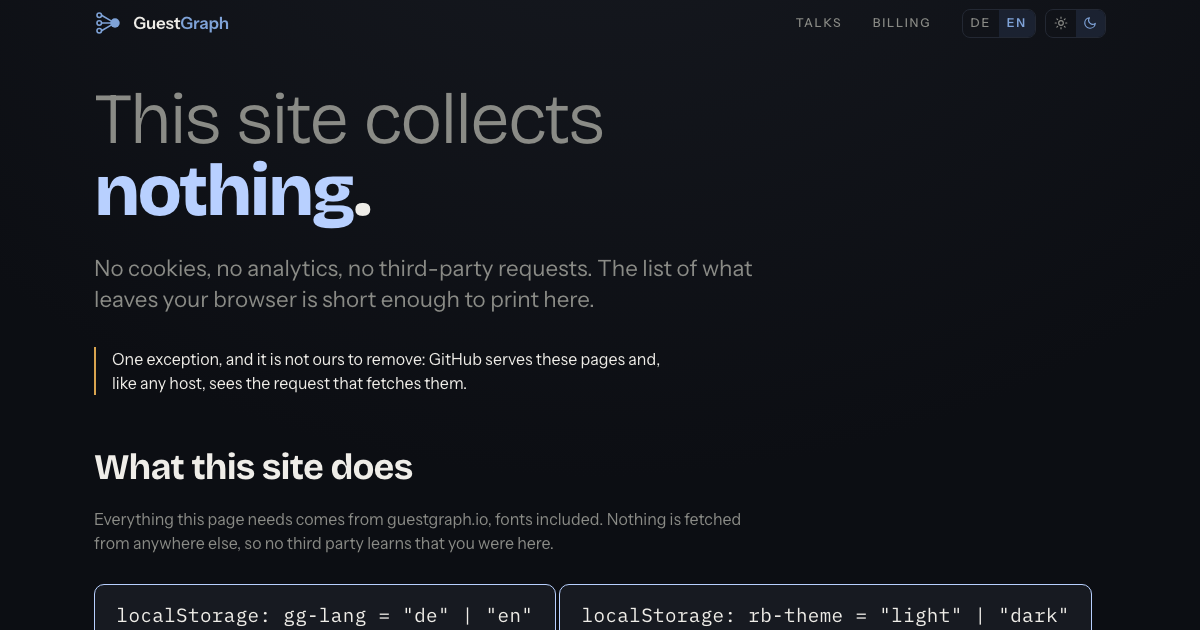
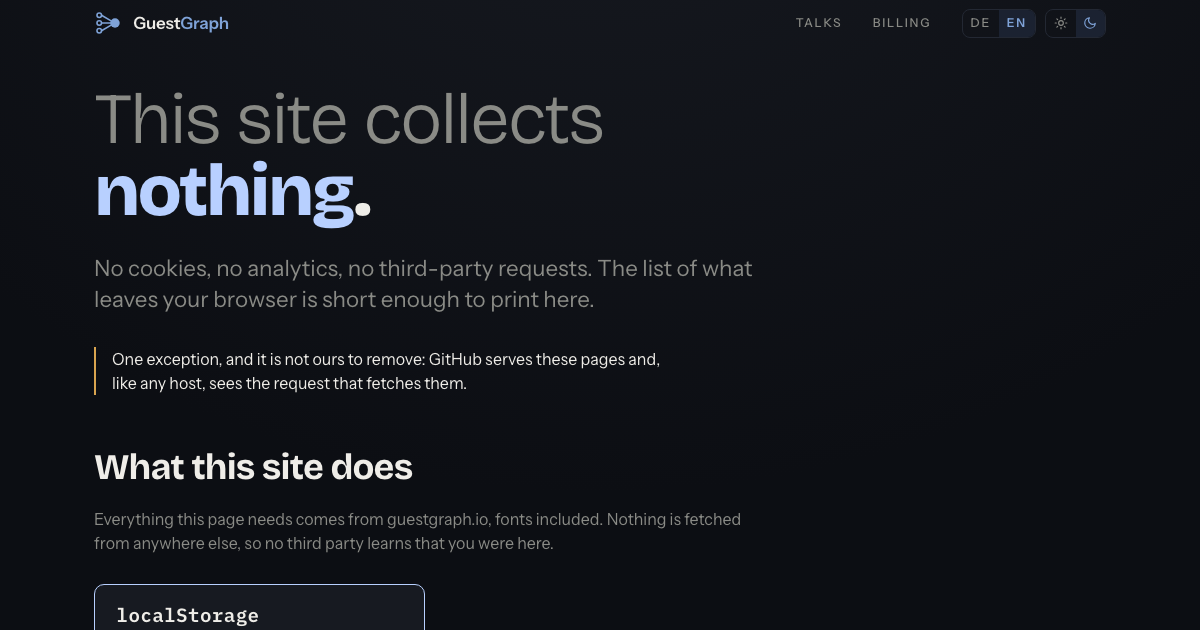
Design 0.32.0: the saved language and theme are lang and theme
Every page reads and writes its saved language and theme under the family's two keys, the
words the address already carries, in place of gg-lang and rb-theme; a visitor's saved
choice starts over once. The config names groups and nothing else, the suite's theme-boot
check names the new key, and the privacy page says what is stored as one block: the two
words.

Verified: npm run verify passes on every page; og:check and design:check pass; no page
names an old key.

diff --git a/talks/intro/index.html b/talks/intro/index.html
@@ -101,7 +101,7 @@
 </script>
 <meta name="author" content="Robert Blust">
 <script>
-  /* ─── theme boot · v2 · deck ────────────────────────────────────
+  /* ─── theme boot · v3 · deck ────────────────────────────────────
      Set the theme before anything paints. Generated from @robertblust/design —
      editing it here does nothing, because the next `npm run design` overwrites it.
 
@@ -121,7 +121,7 @@
   (function(){
     try {
       var m = /[?&]theme=(light|dark)(&|$)/.exec(location.search);
-      var t = m ? m[1] : localStorage.getItem("rb-theme");
+      var t = m ? m[1] : localStorage.getItem("theme");
       if (t === "light") document.documentElement.setAttribute("data-theme", "light");
     } catch (e) {}
   })();
@@ -1121,7 +1121,7 @@
     de:{ title:'GuestGraph – eine Einführung · ein Vortrag von Robert Blust', desc:'Ein Vortrag darüber, warum ein Stammgast wie fünf Fremde aussieht – und wie gestufte Sicherheit jede Zusammenführung erklärbar und umkehrbar macht.' },
     en:{ title:'GuestGraph — an introduction · a talk by Robert Blust', desc:'A talk on why a returning guest looks like five strangers, and how layered confidence makes every merge explainable and reversible.' }
   };
-  /* ─── deck runtime · v6 · shared ───────────────────────────────────
+  /* ─── deck runtime · v7 · shared ───────────────────────────────────
      The deck's whole runtime — slide navigation, language switching, the notes panel
      and narration — generated from @robertblust/design. Editing it here does nothing,
      because the next `npm run design` overwrites it. Change it in the package.
@@ -1162,20 +1162,11 @@
      attributes existing on the page around it; `transport` and `opensFromFile` are what
      actually hold that larger contract, between them, not this comment.
 
-     A `language` fence lives inside this one, parameterized exactly as it is anywhere
-     else it appears — its own `LANG_KEY` line is filled from the site's configured key
-     rather than frozen at extraction. This block declares the same `langKey` parameter
-     for the same reason: the sync tool's pass over this outer fence fills in the
-     site's key here, its separate pass over the nested fence fills in the identical
-     value there, and the two agree.
-     v1 shipped the nested line already substituted with a real value — whichever site
-     this block was extracted from — frozen at the moment of extraction. That value was
-     correct for the origin site and wrong for every other one, and it could never
-     converge: the nested fence's own pass would correct the visible text to each
-     site's real key, while this outer fence kept re-emitting the frozen one forever
-     after — a permanent `design:check` failure with no fixed point. Declaring
-     `langKey` here, matching the nested fence's own declaration, is what makes both
-     passes agree instead.
+     A `language` fence lives inside this one, byte for byte the block `blocks/lang.js`
+     emits for a deck: the sync tool's pass over this outer fence and its separate pass
+     over the nested one must agree, or the two rewrite each other forever with no fixed
+     point. They agree because both come from one source and the key they write, `lang`,
+     is the family's and not a site's.
   */
   var slides = Array.prototype.slice.call(document.querySelectorAll('.slide'));
   // slide numbering is zero-based everywhere the viewer can see it: the kicker on each
@@ -1185,7 +1176,7 @@
   // the talks index keeps the language the reader already picked. Storage is guarded:
   // file:// is an opaque origin in some browsers and throws, and a deck that cannot read
   // a preference must still open — in English, its default.
-  /* ─── language · v2 · deck ─────────────────────────────────────────────
+  /* ─── language · v3 · deck ─────────────────────────────────────────────
      One language across three domains, and where it is remembered. Generated
      from @robertblust/design — editing it here does nothing, because the next
      `npm run design` overwrites it. Change it in the package.
@@ -1196,8 +1187,12 @@
      wherever it reads and writes the visitor's saved choice. Rename `lang` or drop those calls
      and the fence still matches byte for byte — every check stays green — while a click throws
      ReferenceError and the language silently stops crossing domains.
+
+     The key is `lang`, the family's: one name on three origins, the same word the address
+     carries. A storage key is a promise to every visitor, and this one is made once, for the
+     family, by the package, so that no site can make it differently.
   */
-  var LANG_KEY = "gg-lang";
+  var LANG_KEY = "lang";
   function langStored(){ try { return localStorage.getItem(LANG_KEY); } catch (e) { return null; } }
   function langRemember(v){ try { localStorage.setItem(LANG_KEY, v); } catch (e) {} }
 
@@ -1593,7 +1588,7 @@
   window.addEventListener('beforeunload', function(){ if (synth) synth.cancel(); });
   /* ─── end deck runtime ──────────────────────────────────────────────── */
 
-  /* ─── theme · v3 · deck ───────────────────────────────────────
+  /* ─── theme · v4 · deck ───────────────────────────────────────
      One theme across three domains, and where it is remembered. Generated from
      @robertblust/design — editing it here does nothing.
 
@@ -1605,7 +1600,7 @@
      the page's own `noFlash` flag: a page that declares it and is missing either control fails
      there.
   */
-  var THEME_KEY = "rb-theme";
+  var THEME_KEY = "theme";
   function themeStored(){ try { return localStorage.getItem(THEME_KEY); } catch (e) { return null; } }
   function themeRemember(v){ try { localStorage.setItem(THEME_KEY, v); } catch (e) {} }
 

diff --git a/privacy/index.html b/privacy/index.html
@@ -87,7 +87,7 @@
 </script>
 
 <script>
-  /* ─── theme boot · v2 · page ────────────────────────────────────
+  /* ─── theme boot · v3 · page ────────────────────────────────────
      Set the theme before anything paints. Generated from @robertblust/design —
      editing it here does nothing, because the next `npm run design` overwrites it.
 
@@ -107,7 +107,7 @@
   (function(){
     try {
       var m = /[?&]theme=(light|dark)(&|$)/.exec(location.search);
-      var t = m ? m[1] : localStorage.getItem("rb-theme");
+      var t = m ? m[1] : localStorage.getItem("theme");
       if (t === "light") document.documentElement.setAttribute("data-theme", "light");
     } catch (e) {}
   })();
@@ -569,8 +569,7 @@
       <p class="lede" data-de="Alles, was diese Seite braucht, kommt von guestgraph.io – auch die Schriften. Nichts wird anderswo geholt, also erfährt kein Dritter, dass Sie hier waren.">Everything this page needs comes from guestgraph.io, fonts included. Nothing is fetched from anywhere else, so no third party learns that you were here.</p>
       <!-- no data-de: this is the value itself, and it says the same thing in either language.
            Both cases are shown because pinning one would be wrong the moment you switch. -->
-      <p class="unit mono">localStorage: gg-lang = "de" | "en"</p>
-      <p class="unit mono">localStorage: rb-theme = "light" | "dark"</p>
+      <p class="unit mono"><b>localStorage</b><br>lang = "de" | "en"<br>theme = "light" | "dark"</p>
       <p class="lede" data-de="Das ist alles, was gespeichert wird: Ihre Sprachwahl, zwei Buchstaben, und Ihre Darstellungswahl, ein Wort, damit die nächste Seite sie kennt. Sie erreichen keinen Server und identifizieren niemanden.">That is everything that gets stored: your choice of language, two letters, and your choice of appearance, one word, so the next page knows them. They reach no server and identify nobody.</p>
       <div class="cols">
         <div class="card never wide">
@@ -621,7 +620,7 @@
 // thing before any JS runs, and the choice is remembered per origin. This page describes
 // that key, which is the only reason it is worth pointing at the code from here.
 (function(){
-  /* ─── language · v2 · page ─────────────────────────────────────────────
+  /* ─── language · v3 · page ─────────────────────────────────────────────
      One language across three domains, and where it is remembered. Generated
      from @robertblust/design — editing it here does nothing, because the next
      `npm run design` overwrites it. Change it in the package.
@@ -632,8 +631,12 @@
      wherever it reads and writes the visitor's saved choice. Rename `lang` or drop those calls
      and the fence still matches byte for byte — every check stays green — while a click throws
      ReferenceError and the language silently stops crossing domains.
+
+     The key is `lang`, the family's: one name on three origins, the same word the address
+     carries. A storage key is a promise to every visitor, and this one is made once, for the
+     family, by the package, so that no site can make it differently.
   */
-  var LANG_KEY = "gg-lang";
+  var LANG_KEY = "lang";
   function langStored(){ try { return localStorage.getItem(LANG_KEY); } catch (e) { return null; } }
   function langRemember(v){ try { localStorage.setItem(LANG_KEY, v); } catch (e) {} }
 
@@ -678,7 +681,7 @@
   if (urlLang) langRemember(urlLang);
   var lang = urlLang || (langStored() === "de" ? "de" : "en");
 
-  /* ─── theme · v3 · page ───────────────────────────────────────
+  /* ─── theme · v4 · page ───────────────────────────────────────
      One theme across three domains, and where it is remembered. Generated from
      @robertblust/design — editing it here does nothing.
 
@@ -690,7 +693,7 @@
      the page's own `noFlash` flag: a page that declares it and is missing either control fails
      there.
   */
-  var THEME_KEY = "rb-theme";
+  var THEME_KEY = "theme";
   function themeStored(){ try { return localStorage.getItem(THEME_KEY); } catch (e) { return null; } }
   function themeRemember(v){ try { localStorage.setItem(THEME_KEY, v); } catch (e) {} }
 

diff --git a/talks/index.html b/talks/index.html
@@ -93,7 +93,7 @@
 }
 </script>
 <script>
-  /* ─── theme boot · v2 · page ────────────────────────────────────
+  /* ─── theme boot · v3 · page ────────────────────────────────────
      Set the theme before anything paints. Generated from @robertblust/design —
      editing it here does nothing, because the next `npm run design` overwrites it.
 
@@ -113,7 +113,7 @@
   (function(){
     try {
       var m = /[?&]theme=(light|dark)(&|$)/.exec(location.search);
-      var t = m ? m[1] : localStorage.getItem("rb-theme");
+      var t = m ? m[1] : localStorage.getItem("theme");
       if (t === "light") document.documentElement.setAttribute("data-theme", "light");
     } catch (e) {}
   })();
@@ -592,7 +592,7 @@
   // guestgraph.io — one origin, one setting. Storage is guarded because file:// is an
   // opaque origin in some browsers and throws: a page that cannot remember a preference
   // must still work without one.
-  /* ─── language · v2 · page ─────────────────────────────────────────────
+  /* ─── language · v3 · page ─────────────────────────────────────────────
      One language across three domains, and where it is remembered. Generated
      from @robertblust/design — editing it here does nothing, because the next
      `npm run design` overwrites it. Change it in the package.
@@ -603,8 +603,12 @@
      wherever it reads and writes the visitor's saved choice. Rename `lang` or drop those calls
      and the fence still matches byte for byte — every check stays green — while a click throws
      ReferenceError and the language silently stops crossing domains.
+
+     The key is `lang`, the family's: one name on three origins, the same word the address
+     carries. A storage key is a promise to every visitor, and this one is made once, for the
+     family, by the package, so that no site can make it differently.
   */
-  var LANG_KEY = "gg-lang";
+  var LANG_KEY = "lang";
   function langStored(){ try { return localStorage.getItem(LANG_KEY); } catch (e) { return null; } }
   function langRemember(v){ try { localStorage.setItem(LANG_KEY, v); } catch (e) {} }
 
@@ -649,7 +653,7 @@
   if (urlLang) langRemember(urlLang);
   var lang = urlLang || (langStored() === 'de' ? 'de' : 'en');
 
-  /* ─── theme · v3 · page ───────────────────────────────────────
+  /* ─── theme · v4 · page ───────────────────────────────────────
      One theme across three domains, and where it is remembered. Generated from
      @robertblust/design — editing it here does nothing.
 
@@ -661,7 +665,7 @@
      the page's own `noFlash` flag: a page that declares it and is missing either control fails
      there.
   */
-  var THEME_KEY = "rb-theme";
+  var THEME_KEY = "theme";
   function themeStored(){ try { return localStorage.getItem(THEME_KEY); } catch (e) { return null; } }
   function themeRemember(v){ try { localStorage.setItem(THEME_KEY, v); } catch (e) {} }
 

diff --git a/billing/index.html b/billing/index.html
@@ -87,7 +87,7 @@
 </script>
 
 <script>
-  /* ─── theme boot · v2 · page ────────────────────────────────────
+  /* ─── theme boot · v3 · page ────────────────────────────────────
      Set the theme before anything paints. Generated from @robertblust/design —
      editing it here does nothing, because the next `npm run design` overwrites it.
 
@@ -107,7 +107,7 @@
   (function(){
     try {
       var m = /[?&]theme=(light|dark)(&|$)/.exec(location.search);
-      var t = m ? m[1] : localStorage.getItem("rb-theme");
+      var t = m ? m[1] : localStorage.getItem("theme");
       if (t === "light") document.documentElement.setAttribute("data-theme", "light");
     } catch (e) {}
   })();
@@ -624,7 +624,7 @@
 // page says the right thing before any JS runs, and the choice is remembered per origin —
 // so a visitor who switched to German on the landing page arrives here in German.
 (function(){
-  /* ─── language · v2 · page ─────────────────────────────────────────────
+  /* ─── language · v3 · page ─────────────────────────────────────────────
      One language across three domains, and where it is remembered. Generated
      from @robertblust/design — editing it here does nothing, because the next
      `npm run design` overwrites it. Change it in the package.
@@ -635,8 +635,12 @@
      wherever it reads and writes the visitor's saved choice. Rename `lang` or drop those calls
      and the fence still matches byte for byte — every check stays green — while a click throws
      ReferenceError and the language silently stops crossing domains.
+
+     The key is `lang`, the family's: one name on three origins, the same word the address
+     carries. A storage key is a promise to every visitor, and this one is made once, for the
+     family, by the package, so that no site can make it differently.
   */
-  var LANG_KEY = "gg-lang";
+  var LANG_KEY = "lang";
   function langStored(){ try { return localStorage.getItem(LANG_KEY); } catch (e) { return null; } }
   function langRemember(v){ try { localStorage.setItem(LANG_KEY, v); } catch (e) {} }
 
@@ -681,7 +685,7 @@
   if (urlLang) langRemember(urlLang);
   var lang = urlLang || (langStored() === "de" ? "de" : "en");
 
-  /* ─── theme · v3 · page ───────────────────────────────────────
+  /* ─── theme · v4 · page ───────────────────────────────────────
      One theme across three domains, and where it is remembered. Generated from
      @robertblust/design — editing it here does nothing.
 
@@ -693,7 +697,7 @@
      the page's own `noFlash` flag: a page that declares it and is missing either control fails
      there.
   */
-  var THEME_KEY = "rb-theme";
+  var THEME_KEY = "theme";
   function themeStored(){ try { return localStorage.getItem(THEME_KEY); } catch (e) { return null; } }
   function themeRemember(v){ try { localStorage.setItem(THEME_KEY, v); } catch (e) {} }
 

diff --git a/index.html b/index.html
@@ -93,7 +93,7 @@
 </script>
 
 <script>
-  /* ─── theme boot · v2 · page ────────────────────────────────────
+  /* ─── theme boot · v3 · page ────────────────────────────────────
      Set the theme before anything paints. Generated from @robertblust/design —
      editing it here does nothing, because the next `npm run design` overwrites it.
 
@@ -113,7 +113,7 @@
   (function(){
     try {
       var m = /[?&]theme=(light|dark)(&|$)/.exec(location.search);
-      var t = m ? m[1] : localStorage.getItem("rb-theme");
+      var t = m ? m[1] : localStorage.getItem("theme");
       if (t === "light") document.documentElement.setAttribute("data-theme", "light");
     } catch (e) {}
   })();
@@ -677,7 +677,7 @@
 // storage access is guarded: file:// is an opaque origin in some browsers and throws,
 // and a page that cannot remember a preference must still work without one.
 (function(){
-  /* ─── language · v2 · page ─────────────────────────────────────────────
+  /* ─── language · v3 · page ─────────────────────────────────────────────
      One language across three domains, and where it is remembered. Generated
      from @robertblust/design — editing it here does nothing, because the next
      `npm run design` overwrites it. Change it in the package.
@@ -688,8 +688,12 @@
      wherever it reads and writes the visitor's saved choice. Rename `lang` or drop those calls
      and the fence still matches byte for byte — every check stays green — while a click throws
      ReferenceError and the language silently stops crossing domains.
+
+     The key is `lang`, the family's: one name on three origins, the same word the address
+     carries. A storage key is a promise to every visitor, and this one is made once, for the
+     family, by the package, so that no site can make it differently.
   */
-  var LANG_KEY = "gg-lang";
+  var LANG_KEY = "lang";
   function langStored(){ try { return localStorage.getItem(LANG_KEY); } catch (e) { return null; } }
   function langRemember(v){ try { localStorage.setItem(LANG_KEY, v); } catch (e) {} }
 
@@ -734,7 +738,7 @@
   if (urlLang) langRemember(urlLang);
   var lang = urlLang || (langStored() === "de" ? "de" : "en");
 
-  /* ─── theme · v3 · page ───────────────────────────────────────
+  /* ─── theme · v4 · page ───────────────────────────────────────
      One theme across three domains, and where it is remembered. Generated from
      @robertblust/design — editing it here does nothing.
 
@@ -746,7 +750,7 @@
      the page's own `noFlash` flag: a page that declares it and is missing either control fails
      there.
   */
-  var THEME_KEY = "rb-theme";
+  var THEME_KEY = "theme";
   function themeStored(){ try { return localStorage.getItem(THEME_KEY); } catch (e) { return null; } }
   function themeRemember(v){ try { localStorage.setItem(THEME_KEY, v); } catch (e) {} }
 
